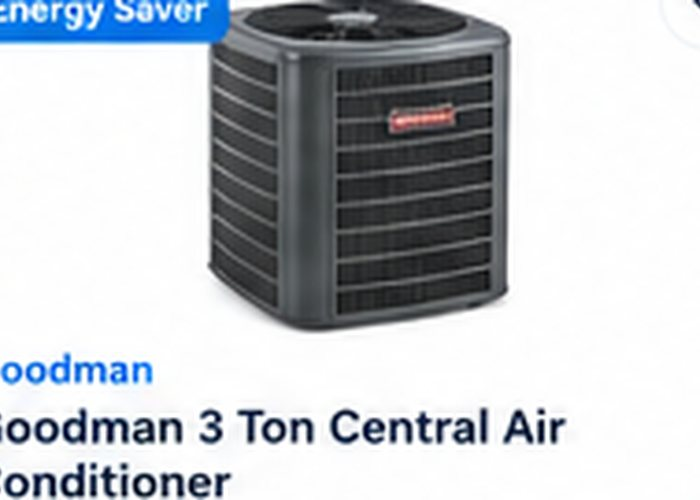
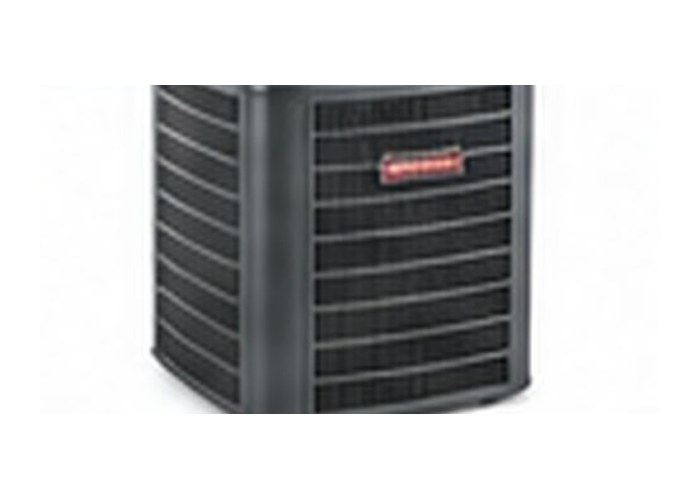
Add files via upload

diff --git a/CHANGELOG.md b/CHANGELOG.md
@@ -1,9 +1,14 @@
 # Changelog
-## V1 — Initial storefront
-- AEROVIA Climate Solutions ecommerce storefront.
-- Responsive navigation, search, filtering and price sorting.
-- 12 products across HVAC categories.
-- Local optimized product/category imagery.
-- Wishlist and cart persistence with LocalStorage.
-- Climate Finder and support/contact form.
-- Responsive mobile layout.
+
+## V2 — Product Image Cleanup
+
+- Removed embedded website labels, badges, prices, and interface text from product photography where present.
+- Reframed product images so the actual article is the visual focus.
+- Standardized product-image canvases for consistent ecommerce cards.
+- Kept wishlist hearts and all product controls as HTML/UI elements outside the images.
+- Kept all product and category assets local to the project.
+- Preserved the existing storefront functionality, support contact, cart, wishlist, search, filters, and responsive layout.
+
+## V1 — Initial Storefront
+
+- Initial AEROVIA Climate Solutions ecommerce storefront.
